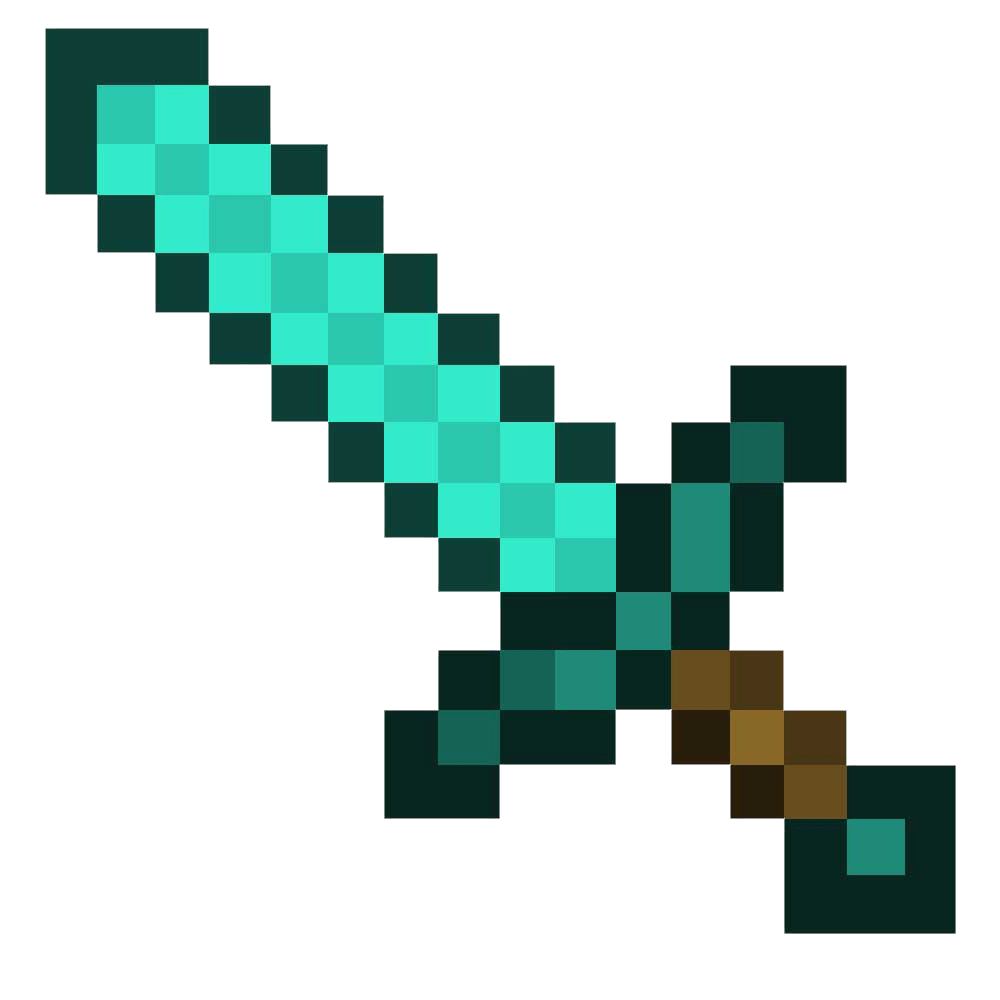
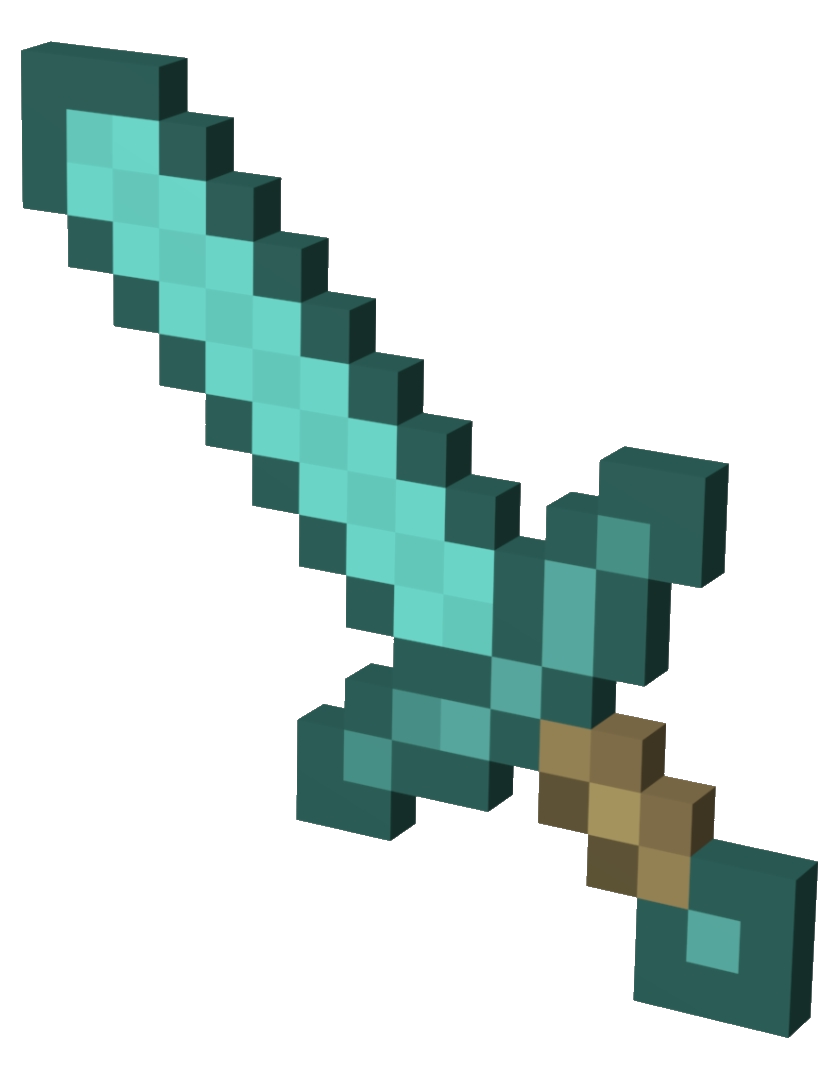
Correction chemin img sword

Changed region(s): [[0.0, 0.031, 0.9905, 0.961]]

diff --git a/js/app.js b/js/app.js
@@ -354,7 +354,7 @@ var APP = {
 					isHovered = true;
 					// Modifier le style du curseur lors du survol
 					// renderer.domElement.style.cursor = 'none';
-					document.getElementById('cursor').style.backgroundImage = "url('/louistotain/img/img.png')";
+					document.getElementById('cursor').style.backgroundImage = "url('img/sword.png')";
 					document.getElementById('body').style.cursor = "none";
 
 				} else {
